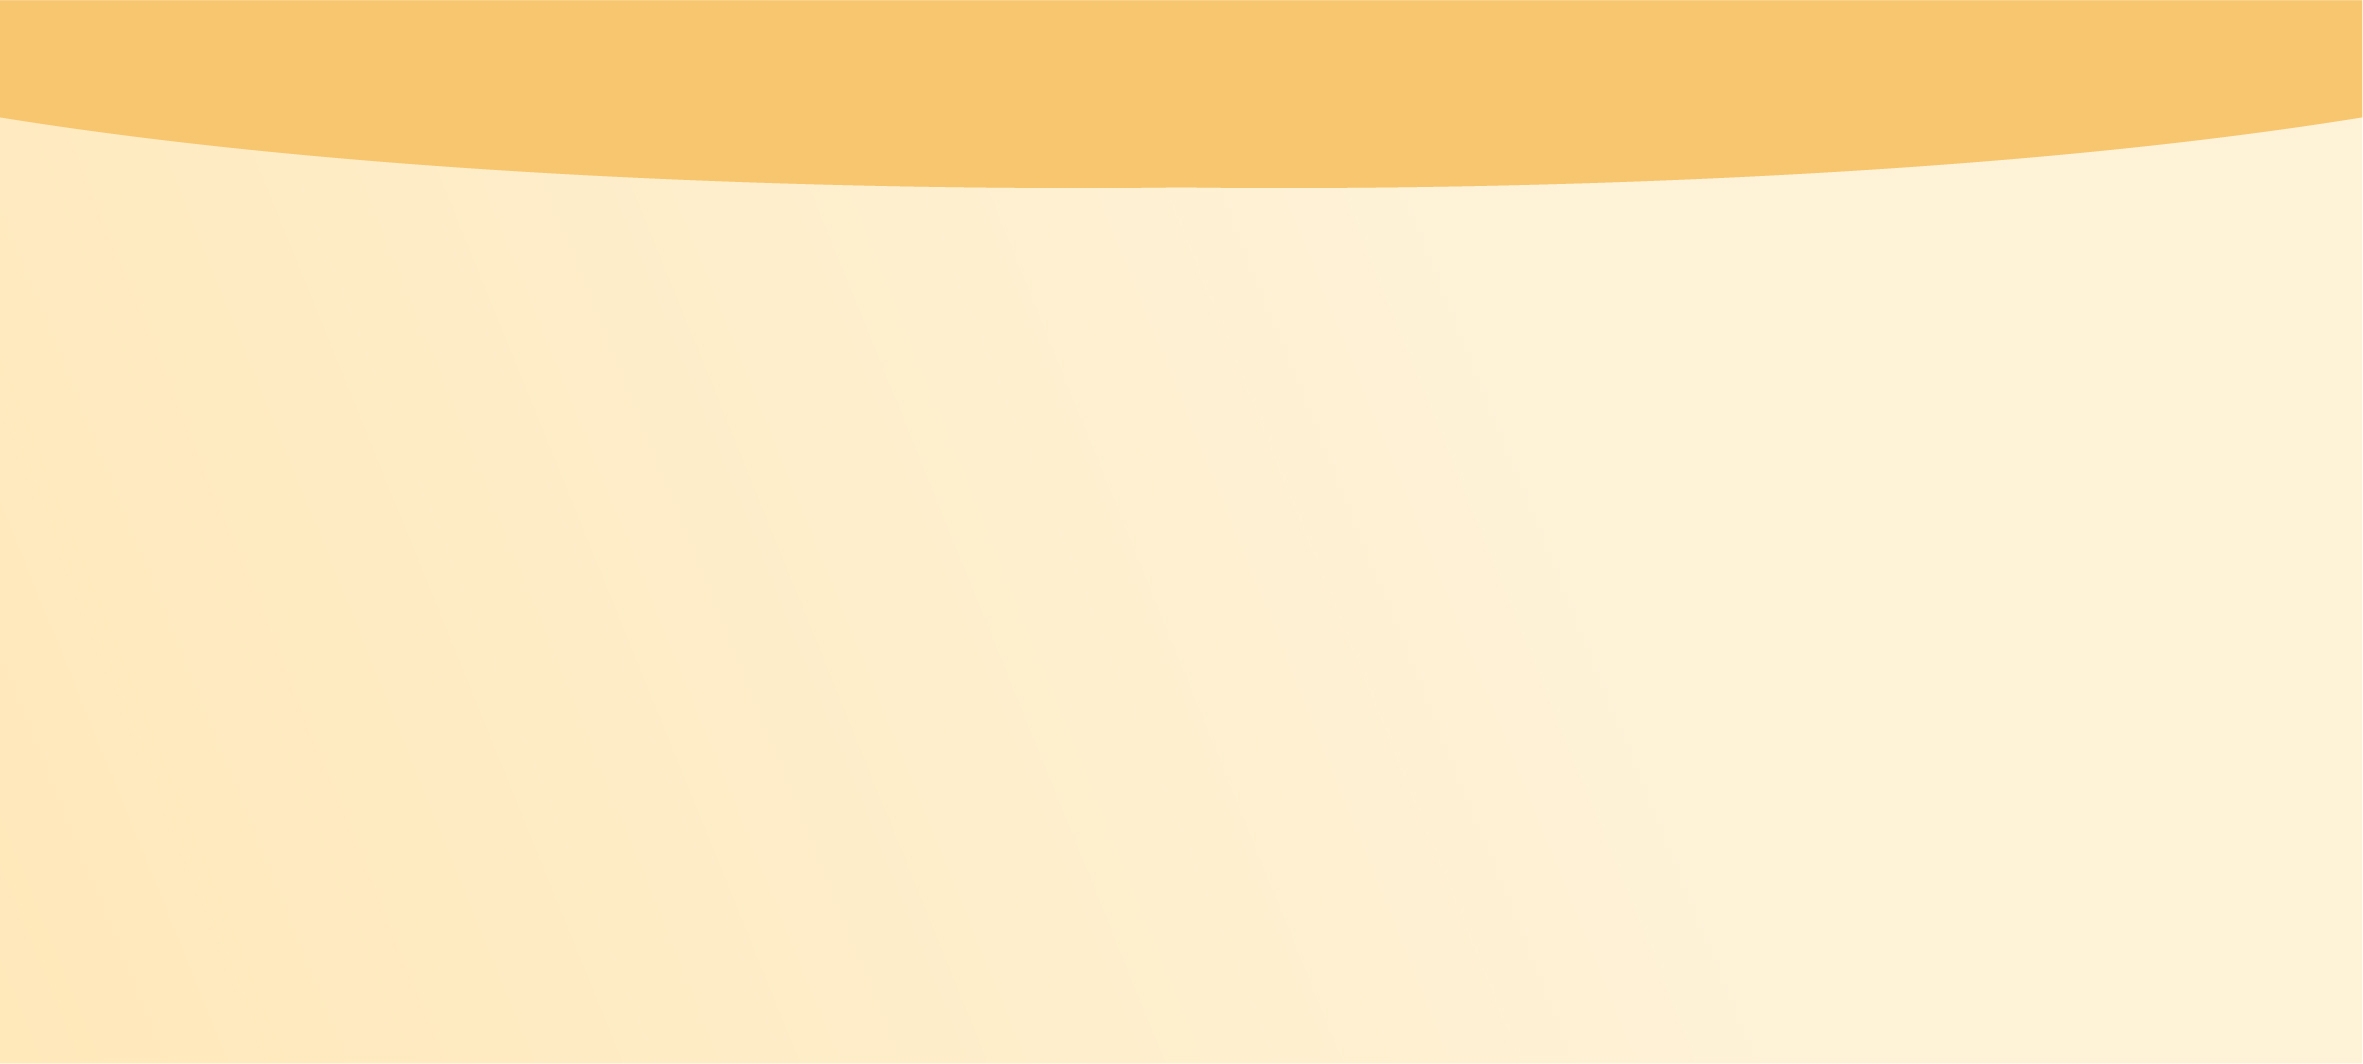
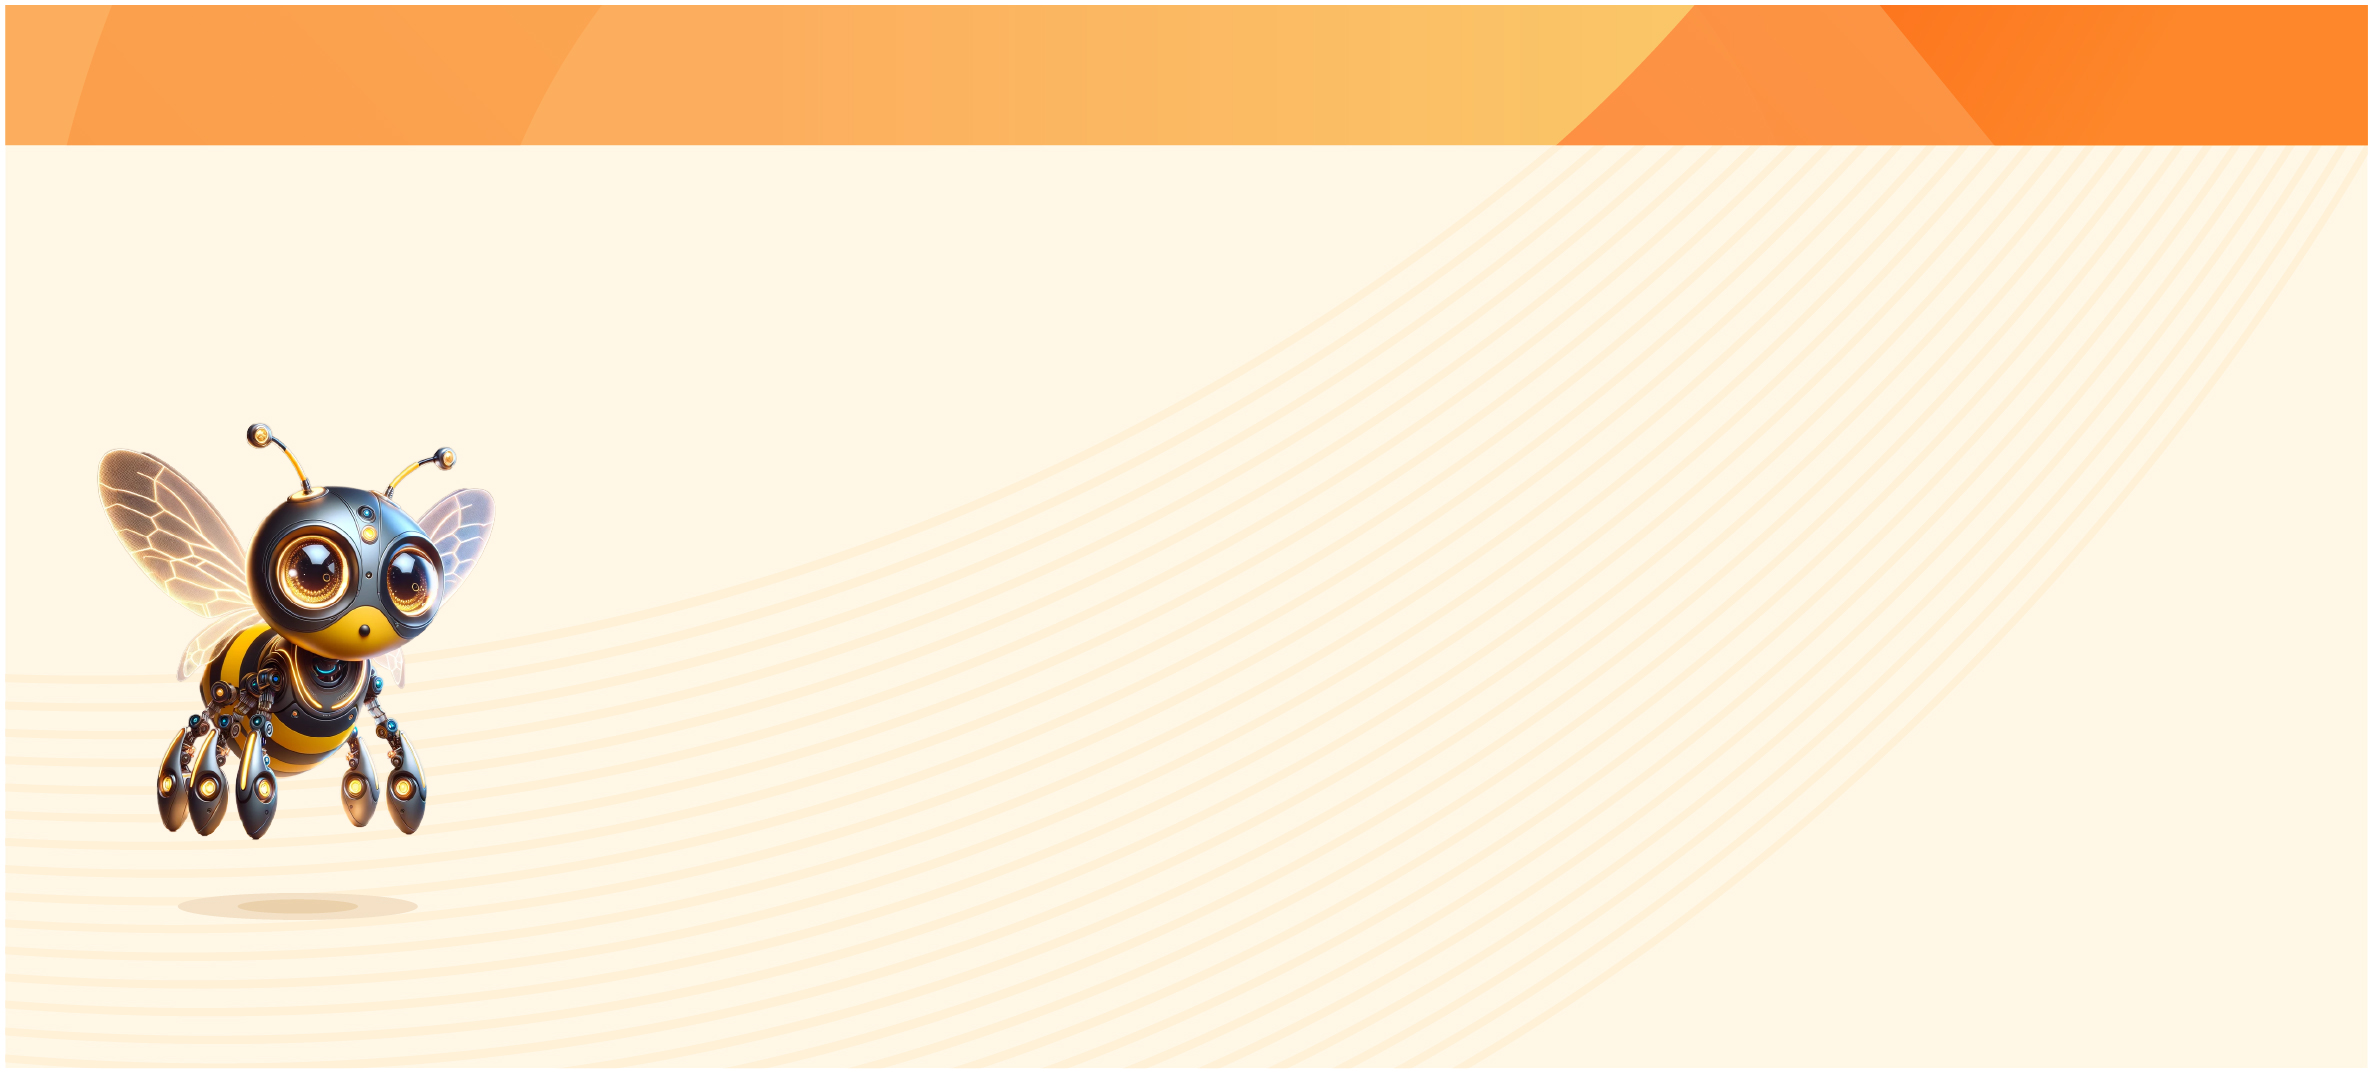
完善了主页UI
- 添加了背景图片
- 添加了按钮图片
- 更改了组件位置
- 已知问题：小手机的显示问题

diff --git a/BeeCode/BeeCode/Screens/Main/MainScreen.js b/BeeCode/BeeCode/Screens/Main/MainScreen.js
@@ -5,15 +5,17 @@ import { View, TouchableOpacity, Text, StatusBar, BackHandler, ImageBackground }
 import { SafeAreaView } from 'react-native-safe-area-context';
 import * as ScreenOrientation from 'expo-screen-orientation';
 import styles from './MainScreen.styles';
+import CourseScreen from '../Course/CourseScreen';
 
 const backgroundImage = require('./res/MainScreen_background.jpg');
-// const courseImage = require('./res/course_image.jpg'); // 课程套件
-// const profileImage = require('./res/profile_image.jpg'); // 网络课堂
-// const workShopImage = require('./res/workShop_image.jpg'); // 快速编程
-// const testAnalysisImage = require('./res/testAnalysis_image.jpg'); // 测评分析
-// const chatServiceImage = require('./res/chatService_image.jpg'); // 在线咨询
-// const socialCenterImage = require('./res/socialCenter_image.jpg'); // 会员中心
-// const settingsImage = require('./res/settings_image.jpg'); // 设置中心
+const courseImage = require('./res/course_image.jpg'); // 课程套件
+// const profileImage = require('./res/profile_image.jpg'); // 个人中心
+const onlineCourseImage = require('./res/onlineCourse_image.jpg'); // 网络课堂
+const workShopImage = require('./res/workShop_image.jpg'); // 机械工坊
+const testAnalysisImage = require('./res/testAnalysis_image.jpg'); // 测评分析
+const chatServiceImage = require('./res/chatService_image.jpg'); // 在线咨询
+const socialCenterImage = require('./res/socialCenter_image.jpg'); // 会员中心
+const settingsImage = require('./res/settings_image.jpg'); // 设置中心
 
 
 // Placeholder SecondScreen component
@@ -42,18 +44,19 @@ const MainScreen = ({ navigation }) => {
   }
 
   const handleButtonD = () => {
+    console.log('Pressed Button 在线咨询');
+    // Navigate to related page
+    navigation.navigate('ChatService'); // 使用 'ChatService' 导航到聊天界面
+
+  }
+
+  const handleButtonE = () => {
     console.log('Pressed Button 测评分析');
     // Navigate to related page
   }
 
-  const handleButtonE = () => {
-    console.log('Pressed Button 在线咨询');
-    // Navigate to related page
-    navigation.navigate('ChatService'); // 使用 'ChatService' 导航到聊天界面
-  }
-
   const handleButtonF = () => {
-    console.log('Pressed Button 会员中心');
+    console.log('Pressed Button Bee社区');
     // Navigate to related page
     navigation.navigate('SocialScreen');
   }
@@ -93,7 +96,6 @@ const MainScreen = ({ navigation }) => {
       <SafeAreaView style={styles.container}>
         <StatusBar hidden={true} />
         {/* Placeholder for the left 30% of the screen */}
-        <View style={styles.leftPlaceholder} />
         <View style={styles.AccountButtonContainer}>
           <TouchableOpacity
           style={styles.AccountButton}
@@ -109,18 +111,22 @@ const MainScreen = ({ navigation }) => {
             <TouchableOpacity 
               style={[styles.button, styles.buttonA]}
               onPress={handleButtonA}>
-              <Text 
-                style={styles.buttonText_big_bold} 
-                numberOfLines={1} 
-                ellipsizeMode="tail"
-              >课程套件</Text>
-              <Text 
-                style={styles.buttonText_small_light}
-                numberOfLines={1} 
-                ellipsizeMode="tail"
-              >AI编程, 智慧成长</Text>
+              <ImageBackground source={courseImage} style={styles.buttonImage} resizeMode='cover' >
+
+                <Text 
+                  style={styles.buttonText_big_bold} 
+                  numberOfLines={1} 
+                  ellipsizeMode="tail"
+                >课程套件</Text>
+                <Text 
+                  style={styles.buttonText_small_light}
+                  numberOfLines={1} 
+                  ellipsizeMode="tail"
+                >AI编程, 智慧成长</Text>
+              </ImageBackground>
             </TouchableOpacity>
           </View>
+          
 
           {/* Remaining columns */}
           <View style={styles.buttonColumns}>
@@ -129,6 +135,8 @@ const MainScreen = ({ navigation }) => {
               <TouchableOpacity 
                 style={[styles.button, styles.buttonB]}
                 onPress={handleButtonB}>
+                <ImageBackground source={onlineCourseImage} style={styles.buttonImage} resizeMode='cover' >
+
                 <Text 
                   style={styles.buttonText_normal_bold}
                   numberOfLines={1} 
@@ -139,21 +147,25 @@ const MainScreen = ({ navigation }) => {
                   numberOfLines={1} 
                   ellipsizeMode="tail"
                 >在家学习编程</Text>
+                </ImageBackground>
 
               </TouchableOpacity>
               <TouchableOpacity 
               style={[styles.button, styles.buttonC]}
               onPress={handleButtonC}>
+                <ImageBackground source={workShopImage} style={styles.buttonImage} resizeMode='cover' >
+
                 <Text 
                   style={styles.buttonText_normal_bold}
                   numberOfLines={1} 
                   ellipsizeMode="tail"
-                >快速编程</Text>
+                >机械工坊</Text>
                 <Text 
                   style={styles.buttonText_small_light}
                   numberOfLines={1} 
                   ellipsizeMode="tail"
                 >自由编写脚本</Text>
+                </ImageBackground>
               </TouchableOpacity>
             </View>
 
@@ -162,30 +174,37 @@ const MainScreen = ({ navigation }) => {
               <TouchableOpacity
                 style={[styles.button, styles.buttonD]}
                 onPress={handleButtonD}>
-                <Text 
-                  style={styles.buttonText_normal_bold}
-                  numberOfLines={1} 
-                  ellipsizeMode="tail"
-                >测评分析</Text>
-                <Text 
-                  style={styles.buttonText_small_light}
-                  numberOfLines={1} 
-                  ellipsizeMode="tail"
-                >学习评估报告</Text>
+                <ImageBackground source={chatServiceImage} style={styles.buttonImage} resizeMode='cover' >
+                  <Text 
+                    style={styles.buttonText_normal_bold}
+                    numberOfLines={1} 
+                    ellipsizeMode="tail"
+                  >在线咨询</Text>
+                  <Text 
+                    style={styles.buttonText_small_light}
+                    numberOfLines={1} 
+                    ellipsizeMode="tail"
+                  >学习评估报告
+                  </Text>
+                </ImageBackground>
               </TouchableOpacity>
+
               <TouchableOpacity 
                 style={[styles.button, styles.buttonE]}
                 onPress={handleButtonE}>
-                <Text 
-                  style={styles.buttonText_normal_bold}
-                  numberOfLines={1} 
-                  ellipsizeMode="tail"
-                >在线咨询</Text>
-                <Text 
-                  style={styles.buttonText_small_light}
-                  numberOfLines={1} 
-                  ellipsizeMode="tail"
-                >获取专业解答</Text>
+                <ImageBackground source={testAnalysisImage} style={styles.buttonImage} resizeMode='cover' >
+                  <Text 
+                    style={styles.buttonText_normal_bold}
+                    numberOfLines={1} 
+                    ellipsizeMode="tail"
+                  >测评分析</Text>
+                  <Text 
+                    style={styles.buttonText_small_light}
+                    numberOfLines={1} 
+                    ellipsizeMode="tail"
+                  >获取专业解答
+                  </Text>
+                </ImageBackground>
               </TouchableOpacity>
             </View>
 
@@ -194,30 +213,36 @@ const MainScreen = ({ navigation }) => {
               <TouchableOpacity 
                 style={[styles.button, styles.buttonF]}
                 onPress={handleButtonF}>
+                  <ImageBackground source={socialCenterImage} style={styles.buttonImage} resizeMode='cover' >
+
                 <Text 
                   style={styles.buttonText_normal_bold}
                   numberOfLines={1} 
                   ellipsizeMode="tail"
-                >会员中心</Text>
+                >马蜂窝</Text>
                 <Text 
                   style={styles.buttonText_small_light}
                   numberOfLines={1} 
                   ellipsizeMode="tail"
                 >记录学习历程</Text>
+                </ImageBackground>
               </TouchableOpacity>
               <TouchableOpacity 
                 style={[styles.button, styles.buttonG]}
                 onPress={handleButtonG}>
-                <Text 
-                  style={styles.buttonText_normal_bold}
-                  numberOfLines={1} 
-                  ellipsizeMode="tail"
-                >设置中心</Text>
-                <Text 
-                  style={styles.buttonText_small_light}
-                  numberOfLines={1} 
-                  ellipsizeMode="tail"
-                >个性化设置</Text>
+                <ImageBackground source={settingsImage} style={styles.buttonImage} resizeMode='cover' >
+                  <Text 
+                    style={styles.buttonText_normal_bold}
+                    numberOfLines={1} 
+                    ellipsizeMode="tail"
+                  >设置中心</Text>
+                  <Text 
+                    style={styles.buttonText_small_light}
+                    numberOfLines={1} 
+                    ellipsizeMode="tail"
+                  >个性化设置
+                  </Text>
+                </ImageBackground>
               </TouchableOpacity>
             </View>
           </View>

diff --git a/BeeCode/BeeCode/Screens/Main/MainScreen.styles.js b/BeeCode/BeeCode/Screens/Main/MainScreen.styles.js
@@ -1,15 +1,21 @@
 import { StyleSheet } from "react-native";
+import { Dimensions } from 'react-native';
+const screenWidth = Dimensions.get('window').width;
+const textSize = screenWidth > 750 ? 20 : 16; 
+console.log('Screen Width: ', screenWidth);
 
 export default StyleSheet.create({
   container: {
     flex: 1,
     flexDirection: 'row',
   },
-  leftPlaceholder: {
-    width: '25%',
-  },
+ 
   rightContainer: {
-    width: '75%',
+    position: 'absolute', // Position the container absolutely within its parent
+    right: 0, // Anchor to the right edge of the screen
+    bottom: 0, // Anchor to the bottom edge of the screen
+    width: '78%', // Take up 75% of the screen's width
+    height: '85%', // Take up 70% of the screen's height
     flexDirection: 'row',
     padding: 20,
     marginRight: 10,
@@ -29,7 +35,9 @@ export default StyleSheet.create({
   },
   AccountButtonText: {
     color: '#fff', 
-    fontSize: 16
+    // fontSize: 16
+    fontSize: textSize - 4, 
+
   },
   columnA: {
     width: '35%',
@@ -45,12 +53,12 @@ export default StyleSheet.create({
     paddingHorizontal: 5, // Adjust spacing as needed
   },
   button: {
-    alignItems: 'flex-start',
+    alignItems: 'flex-cen',
     justifyContent: 'flex-start',
     borderRadius: 30,
-    padding: 15,
     marginBottom: 10,
     flex: 1,
+    overflow: 'hidden',
 
     // Shadow Settings
     elevation: 4, // Shadow for Android
@@ -60,44 +68,57 @@ export default StyleSheet.create({
     shadowRadius: 2,
   },
   buttonText_normal_bold: {
-    fontSize: 20,
+    //fontSize: 20, 
+    fontSize: textSize, 
+
     fontWeight: '900',
     color: '#fff',
+    paddingLeft: 15,
+    paddingTop: 15,
   },
 
   buttonText_big_bold: {
-    fontSize: 26,
+    // fontSize: 26,
+    fontSize: textSize + 6, 
+
     fontWeight: '900',
     color: '#fff',
+    paddingLeft: 15,
+    paddingTop: 15,
   },
 
   buttonText_small_light: {
-    fontSize: 11,
+    // fontSize: 12,
+    fontSize: textSize - 8, 
     fontWeight: '600',
     color: '#fff',
+    paddingLeft: 15,
   },
 
   buttonA: {
-    backgroundColor: '#77dd77',
-    flex: 1, // Take up the full height of the column
-    marginBottom: 10, // No margin at the bottom for "A"
+    backgroundColor: 'lightgrey',
   },
   buttonB: {
-    backgroundColor: '#ff6961',
+    backgroundColor: 'lightgrey',
   },
   buttonC: {
-    backgroundColor: '#fdb147',
+    backgroundColor: 'lightgrey',
   },
   buttonD: {
-    backgroundColor: '#ffec61',
+    backgroundColor: 'lightgrey',
   },
   buttonE: {
-    backgroundColor: '#a7d129',
+    backgroundColor: 'lightgrey',
   },
   buttonF: {
-    backgroundColor: '#29b6f6',
+    backgroundColor: 'lightgrey',
   },
   buttonG: {
-    backgroundColor: '#ba68c8',
+    backgroundColor: 'lightgrey',
+  },
+  buttonImage: {
+    flex: 1,
+    width: '100%', // Ensure the image covers the button width
+    height: '100%', 
   },
 });
